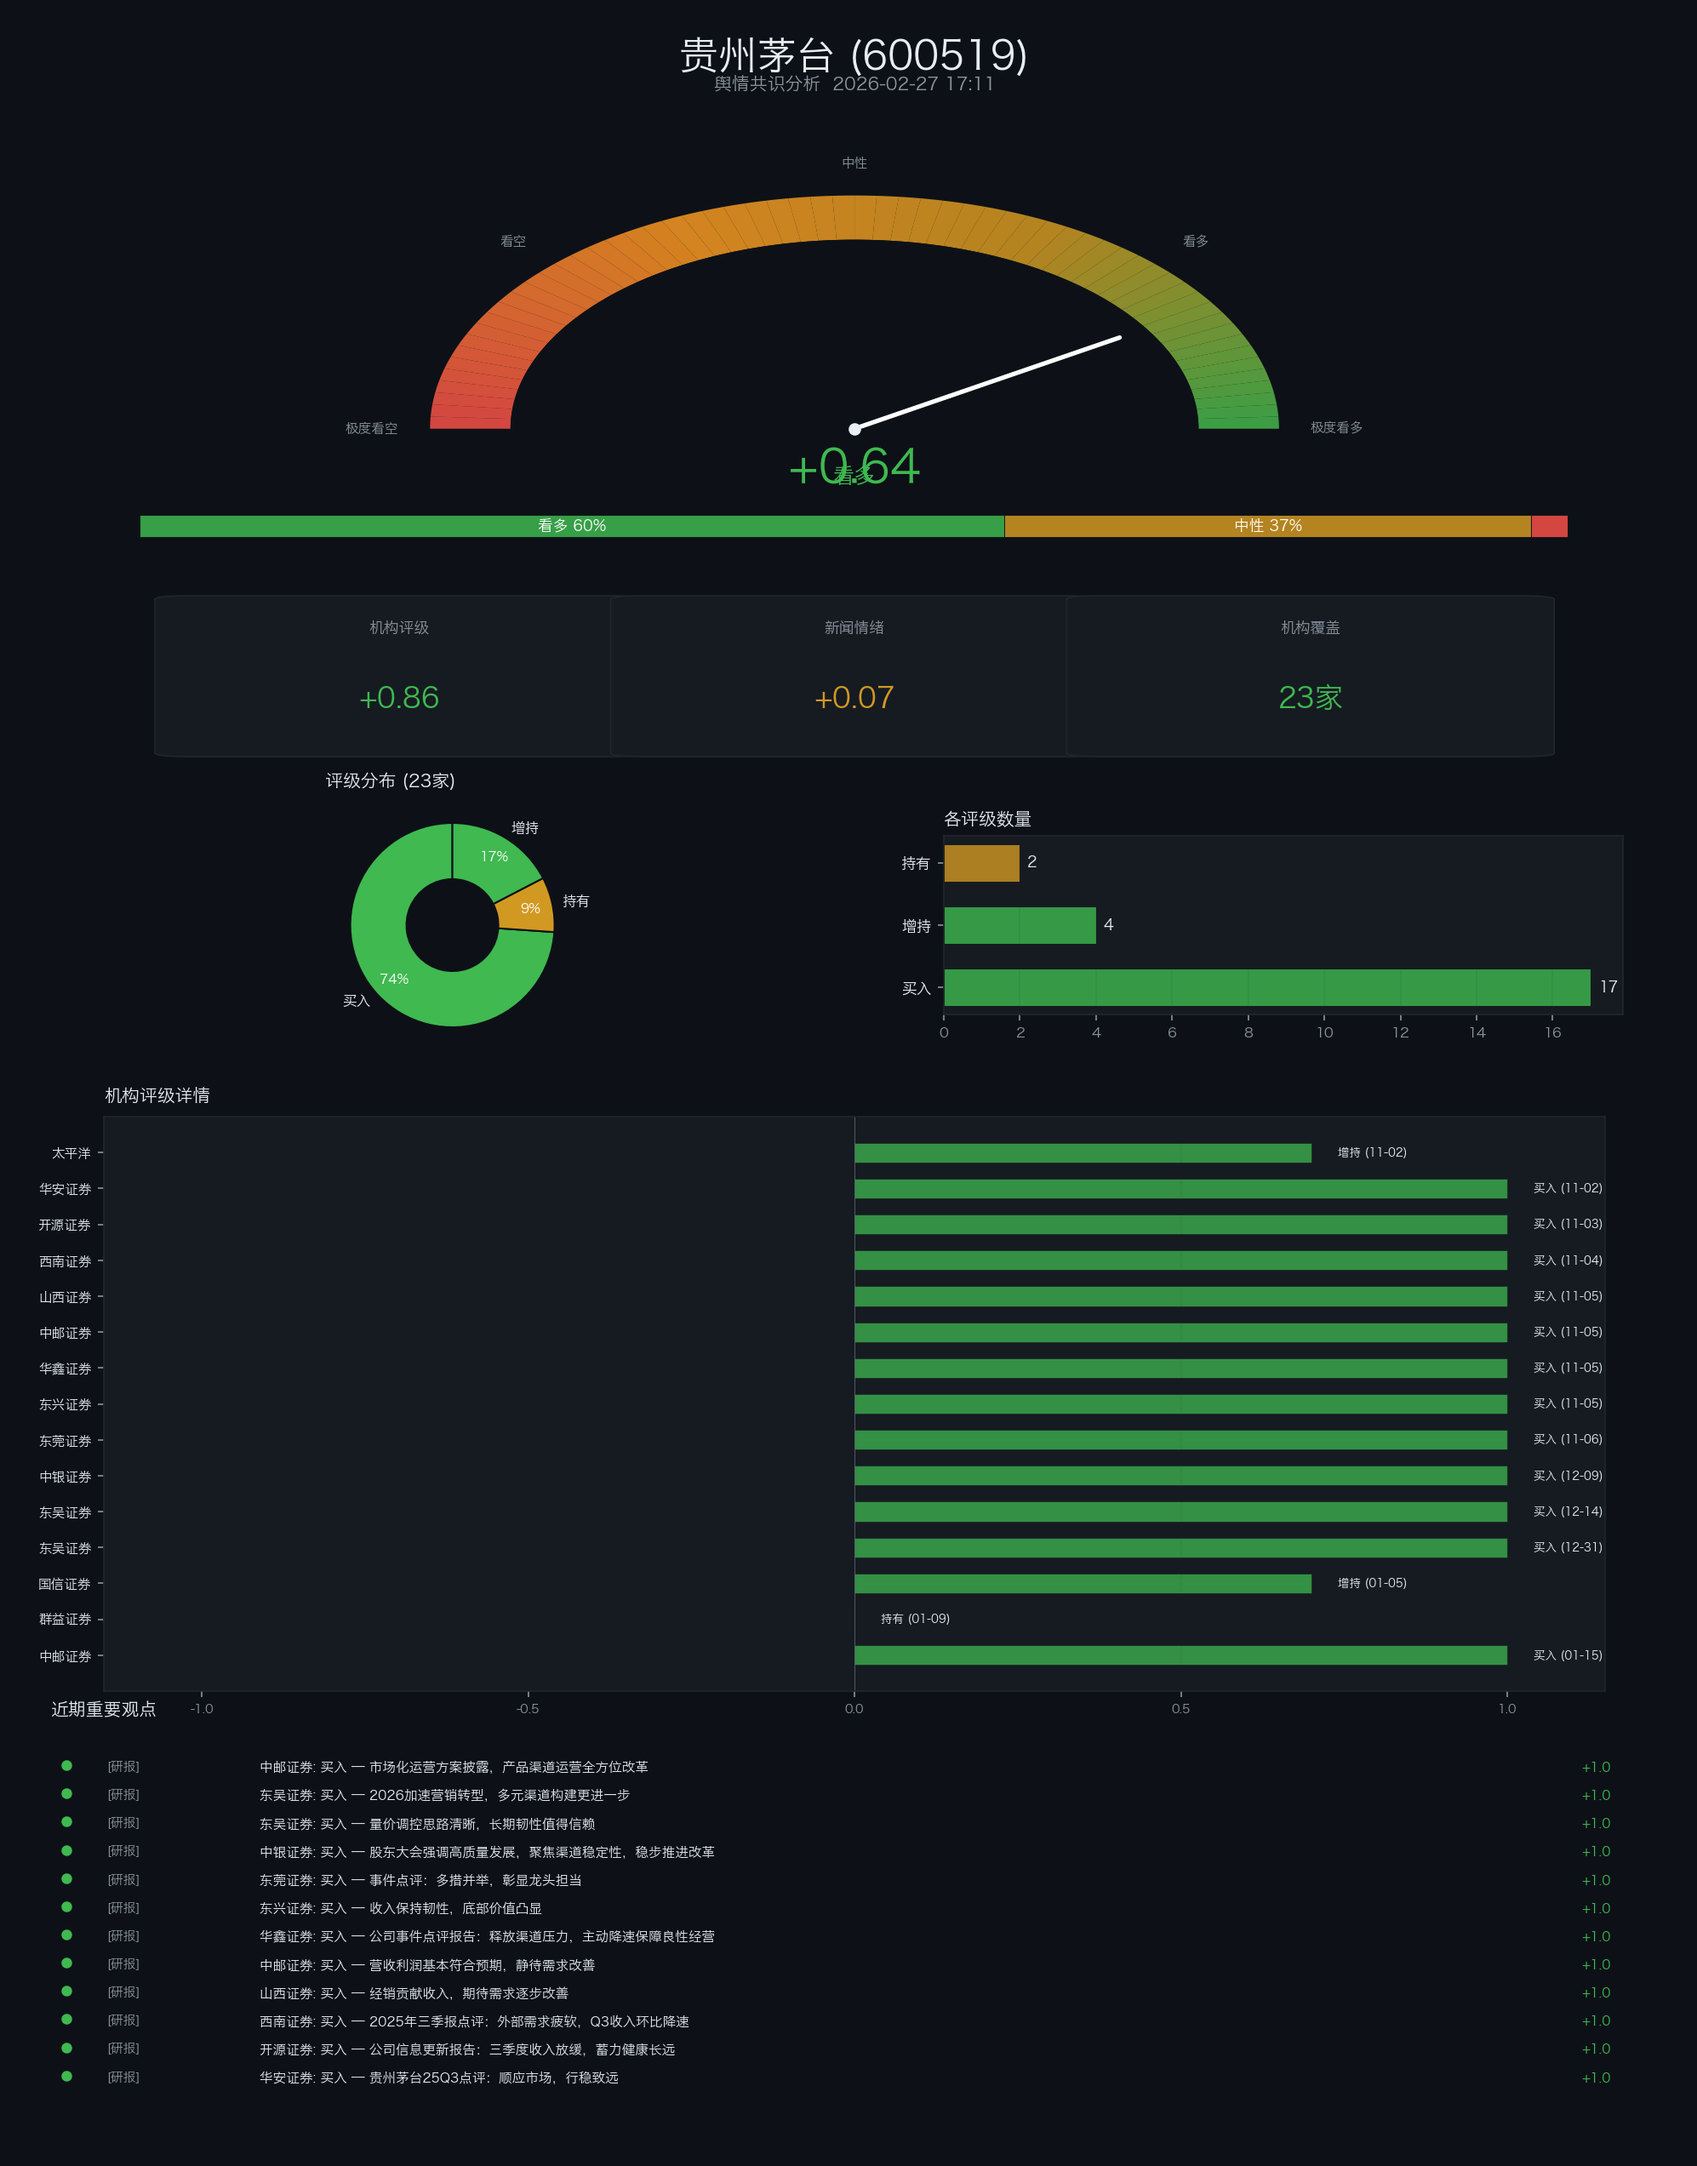
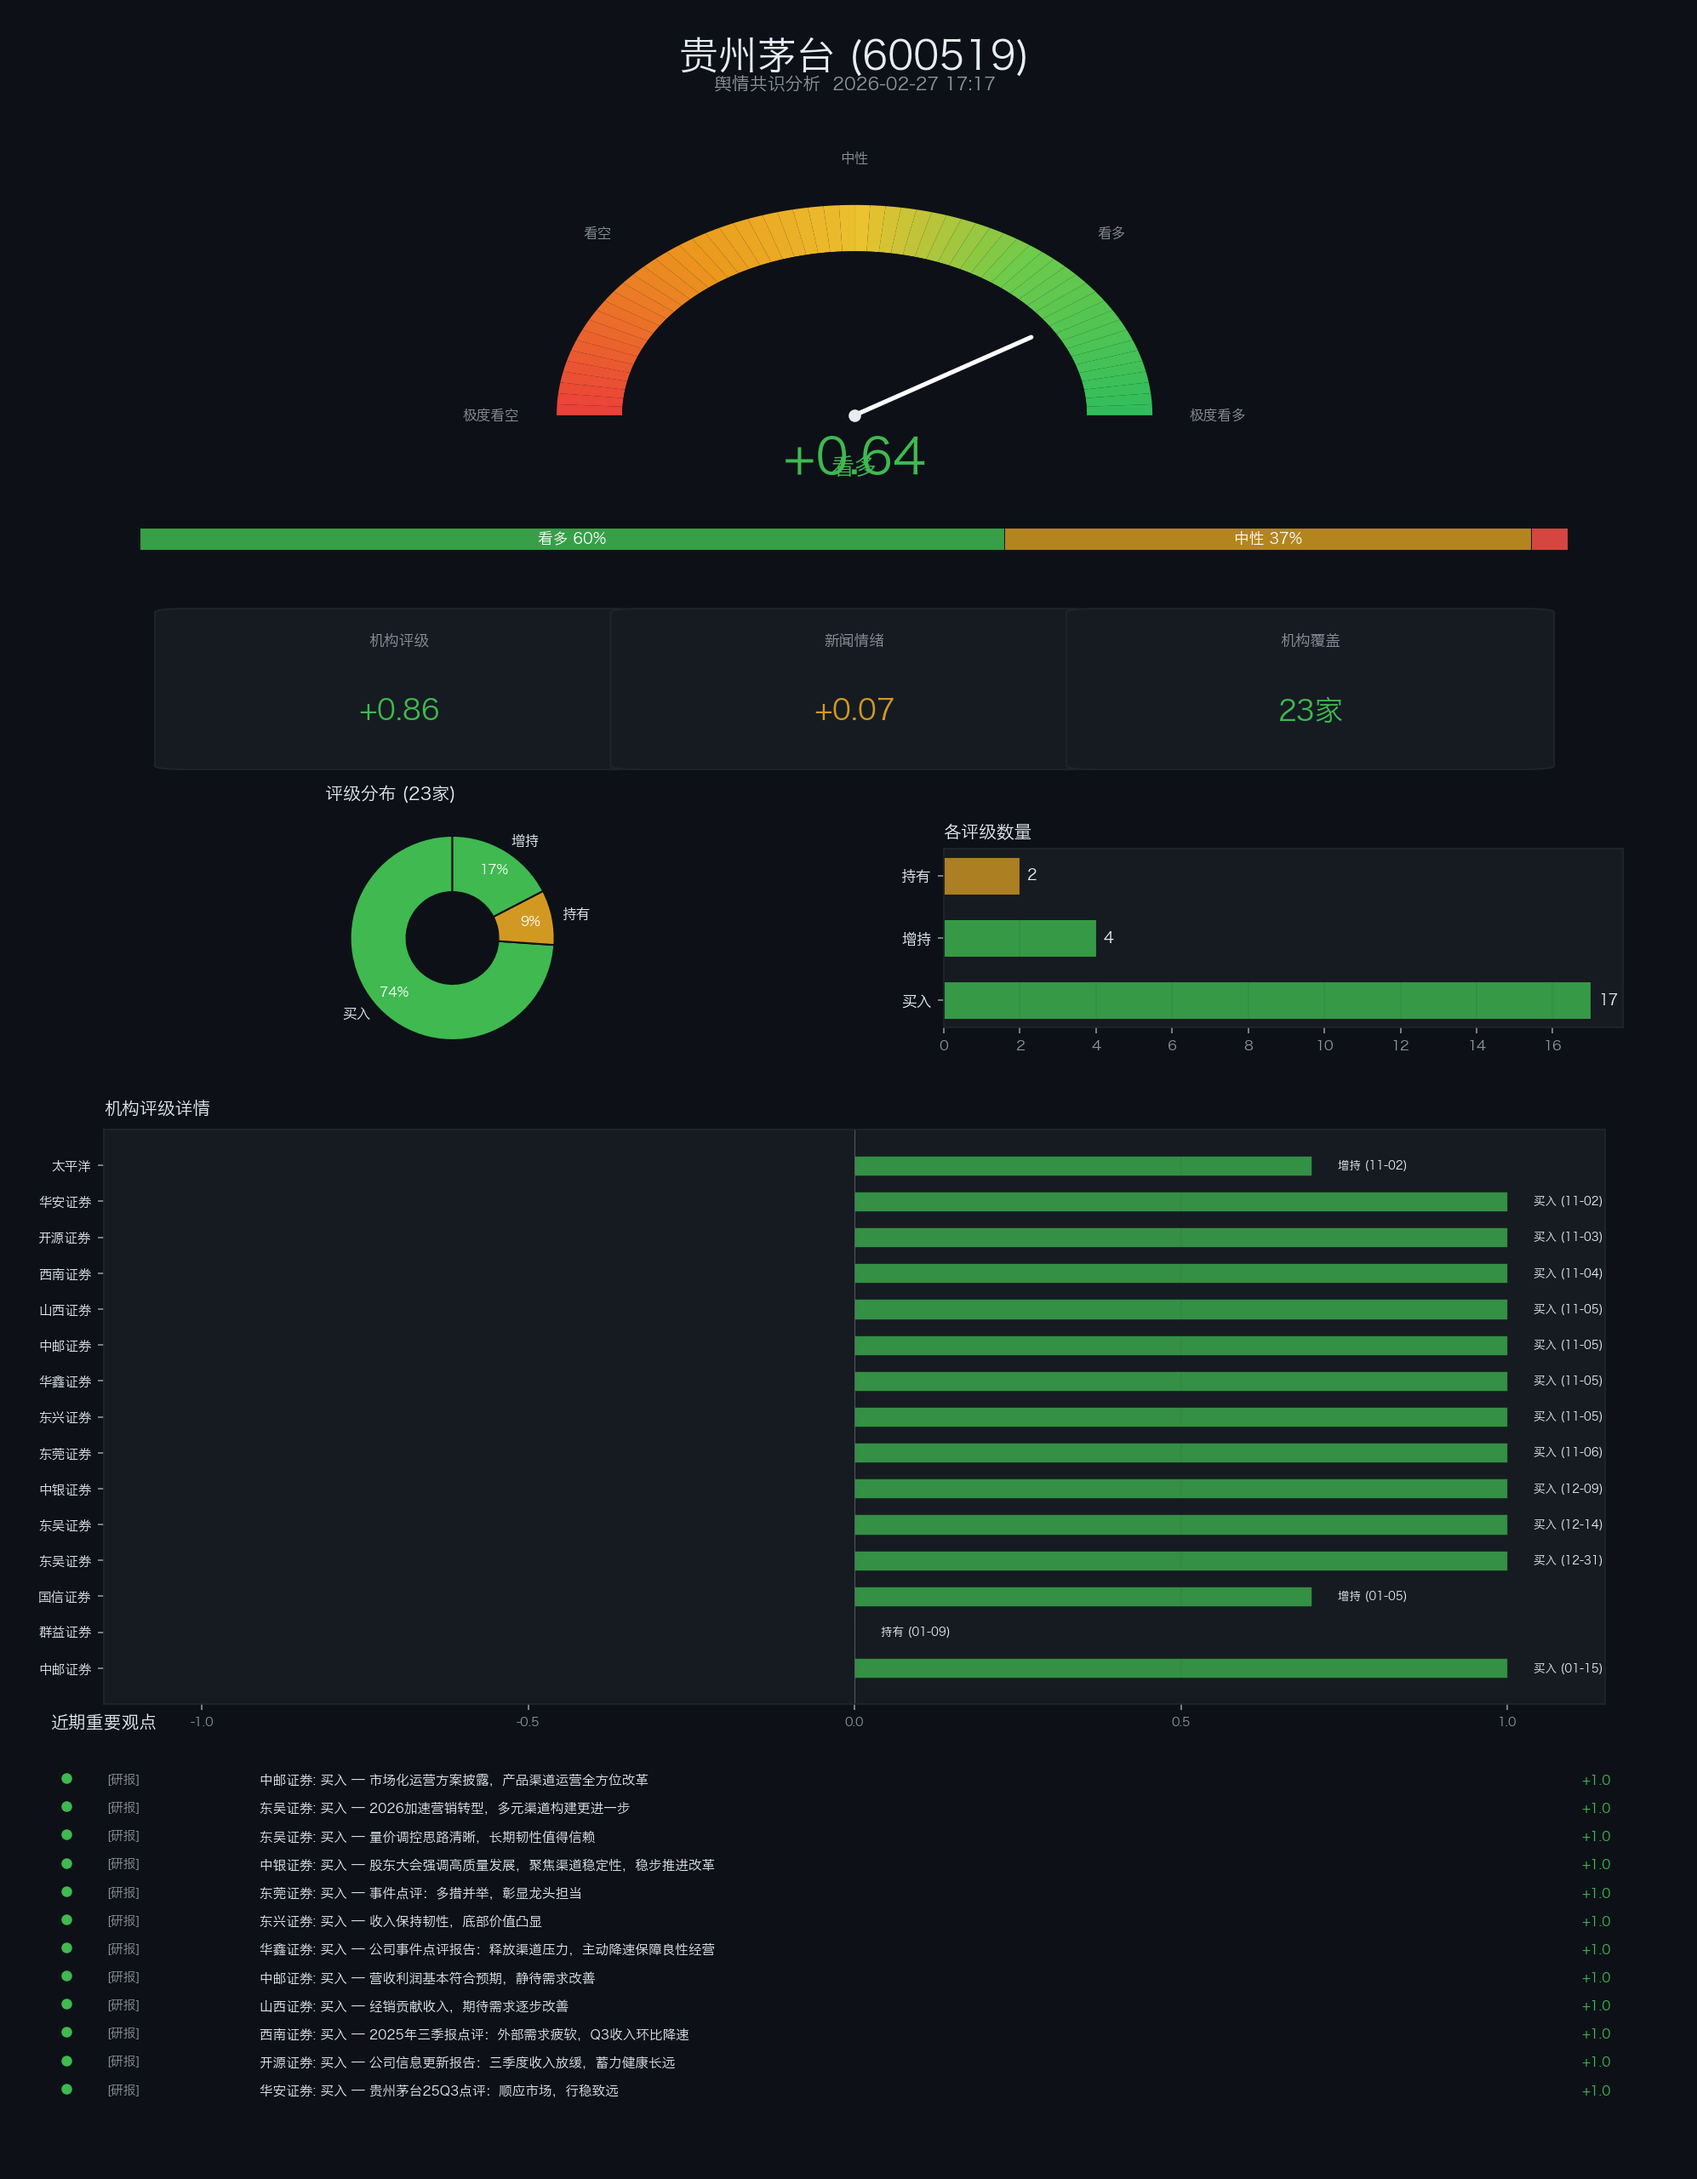
fix: 仪表盘v3 — 缩窄+提亮饱和度+标签外移避免重叠

diff --git a/skills/sentiment-consensus/scripts/consensus_report.py b/skills/sentiment-consensus/scripts/consensus_report.py
@@ -247,63 +247,69 @@ def draw_consensus(data, name, code, output_path):
     # ============================================
     # 1. 仪表盘 (紧凑半圆)
     # ============================================
-    gauge_h = 2.5 / fig_h
-    gauge_bot = 1 - 1.0/fig_h - gauge_h
-    ax_g = fig.add_axes([0.15, gauge_bot, 0.7, gauge_h])
-    ax_g.set_xlim(-1.4, 1.4); ax_g.set_ylim(-0.15, 1.15)
+    gauge_h = 2.8 / fig_h
+    gauge_bot = 1 - 0.8/fig_h - gauge_h
+    ax_g = fig.add_axes([0.25, gauge_bot, 0.5, gauge_h])  # 缩窄：0.5宽居中
+    ax_g.set_xlim(-1.5, 1.5); ax_g.set_ylim(-0.3, 1.4)
     ax_g.set_facecolor(BG); ax_g.axis('off')
 
-    # 渐变弧 — 从左(极度看空/红)到右(极度看多/绿)
+    # 渐变弧 — 更亮更饱和，从左(红/看空)到右(绿/看多)
     n_seg = 60
     for i in range(n_seg):
         a_start = 180 - i * (180 / n_seg)
         a_end = 180 - (i + 1) * (180 / n_seg)
         t = i / n_seg  # 0=左(看空/红) → 1=右(看多/绿)
-        if t < 0.35:
-            # 红 → 橙
-            r = 248
-            g = int(81 + (153-81) * t/0.35)
-            b = int(73 + (34-73) * t/0.35)
-        elif t < 0.65:
-            # 橙 → 黄
-            tt = (t - 0.35) / 0.3
-            r = int(248 + (210-248) * tt)
-            g = int(153 + (153-153) * tt)
-            b = int(34 + (34-34) * tt)
+        if t < 0.3:
+            # 亮红 → 橙
+            r = 255
+            g = int(70 + (165-70) * t/0.3)
+            b = int(60 + (30-60) * t/0.3)
+        elif t < 0.5:
+            # 橙 → 亮黄
+            tt = (t - 0.3) / 0.2
+            r = int(255 + (255-255) * tt)
+            g = int(165 + (210-165) * tt)
+            b = int(30 + (50-30) * tt)
+        elif t < 0.7:
+            # 亮黄 → 黄绿
+            tt = (t - 0.5) / 0.2
+            r = int(255 + (120-255) * tt)
+            g = int(210 + (220-210) * tt)
+            b = int(50 + (80-50) * tt)
         else:
-            # 黄 → 绿
-            tt = (t - 0.65) / 0.35
-            r = int(210 + (63-210) * tt)
-            g = int(153 + (185-153) * tt)
-            b = int(34 + (80-34) * tt)
-        color = f'#{r:02x}{g:02x}{b:02x}'
-        w = Wedge((0, 0), 0.95, a_end, a_start, width=0.18, fc=color, ec='none', alpha=0.85)
+            # 黄绿 → 亮绿
+            tt = (t - 0.7) / 0.3
+            r = int(120 + (50-120) * tt)
+            g = int(220 + (205-220) * tt)
+            b = int(80 + (100-80) * tt)
+        color = f'#{min(r,255):02x}{min(g,255):02x}{min(b,255):02x}'
+        w = Wedge((0, 0), 1.0, a_end, a_start, width=0.22, fc=color, ec='none', alpha=0.92)
         ax_g.add_patch(w)
 
     # 内阴影
-    w_inner = Wedge((0, 0), 0.77, 0, 180, fc=BG, ec='none')
+    w_inner = Wedge((0, 0), 0.78, 0, 180, fc=BG, ec='none')
     ax_g.add_patch(w_inner)
 
     # 指针 — score -1(极度看空/左/180°)→0(中/90°)→+1(极度看多/右/0°)
-    ptr_angle = 90 - consensus_score * 90  # +1→0°(右), -1→180°(左)
+    ptr_angle = 90 - consensus_score * 90
     ptr_rad = np.radians(ptr_angle)
     ax_g.plot([0, 0.7*np.cos(ptr_rad)], [0, 0.7*np.sin(ptr_rad)],
              color='white', lw=2.5, solid_capstyle='round')
     ax_g.plot(0, 0, 'o', color=TXT, markersize=6, zorder=5)
 
-    # 刻度标签 — 左=看空, 右=看多
+    # 刻度标签 — 外移到1.25避免和弧重叠
     for val, label in [(-1, '极度看空'), (-0.5, '看空'), (0, '中性'), (0.5, '看多'), (1, '极度看多')]:
-        a = np.radians(90 - val * 90)  # -1→180°(左), +1→0°(右)
-        ax_g.text(1.08*np.cos(a), 1.08*np.sin(a), label,
-                 fontsize=7.5, color=LBL, ha='center', va='center')
+        a = np.radians(90 - val * 90)
+        ax_g.text(1.22*np.cos(a), 1.22*np.sin(a), label,
+                 fontsize=8, color=LBL, ha='center', va='center')
 
     # 分数
     score_color = BULL if consensus_score > 0.2 else BEAR if consensus_score < -0.2 else NEU
     label_text = '看多' if consensus_score > 0.2 else '看空' if consensus_score < -0.2 else '中性'
-    ax_g.text(0, -0.08, f'{consensus_score:+.2f}', fontsize=26, fontweight='bold',
+    ax_g.text(0, -0.1, f'{consensus_score:+.2f}', fontsize=28, fontweight='bold',
              color=score_color, ha='center', va='top',
              path_effects=[pe.withStroke(linewidth=2, foreground=BG)])
-    ax_g.text(0, -0.22, label_text, fontsize=12, color=score_color, ha='center')
+    ax_g.text(0, -0.28, label_text, fontsize=13, color=score_color, ha='center')
 
     # ============================================
     # 2. 多空占比条
